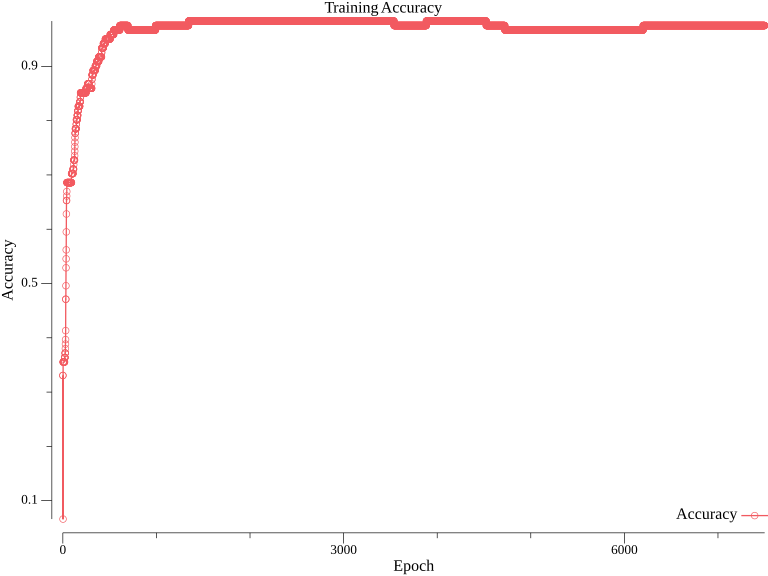
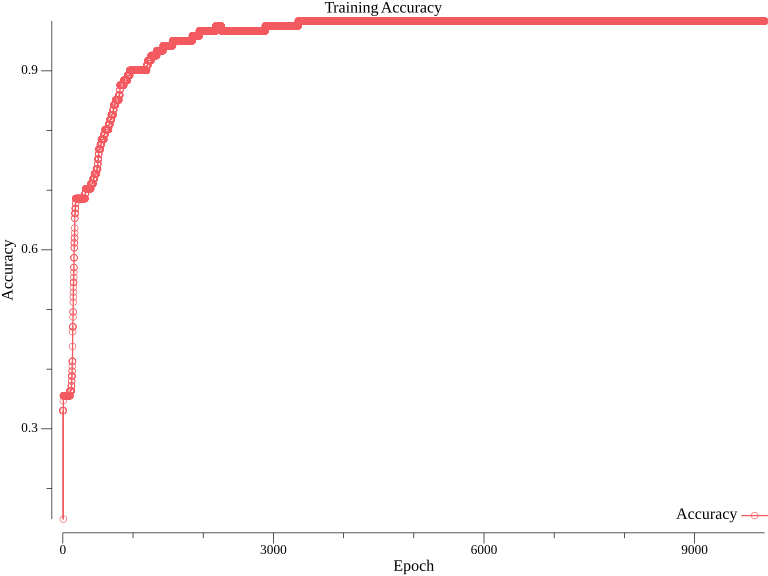
97% maal

diff --git a/main.go b/main.go
@@ -48,8 +48,8 @@ func main() {
 		inputNeurons:  4,
 		outputNeurons: 3,
 		hiddenNeurons: 3,
-		numEpochs:     7500,
-		learningRate:  0.03,
+		numEpochs:     10000,
+		learningRate:  0.01,
 	}
 
 	// Train the neural network.
